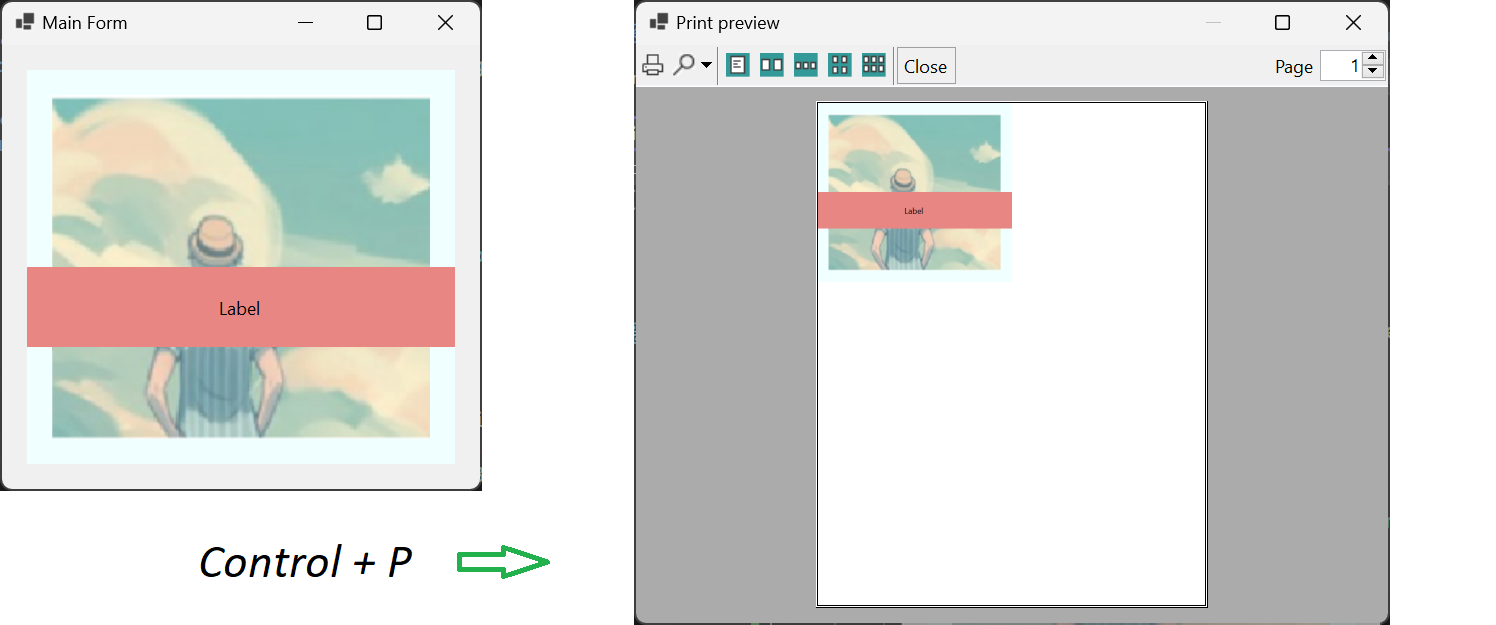
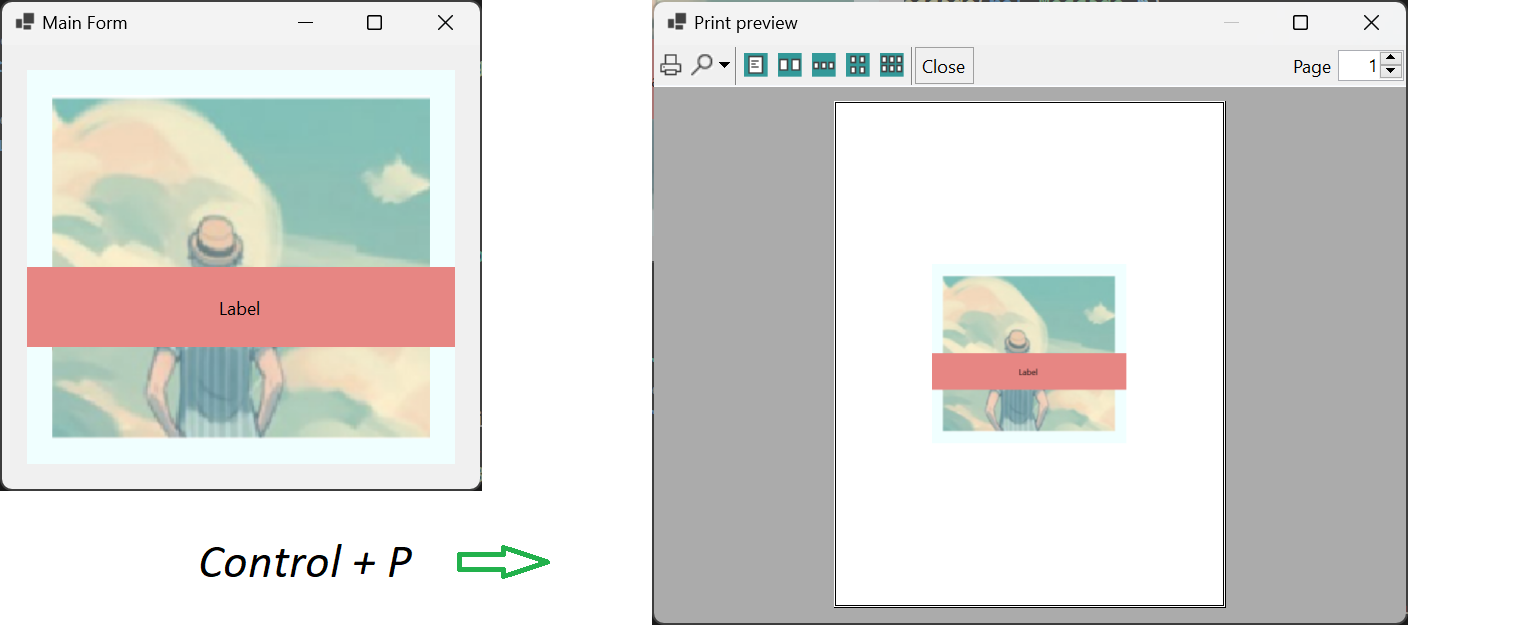
center image

diff --git a/print-preview-z-order/MainForm.cs b/print-preview-z-order/MainForm.cs
@@ -57,7 +57,12 @@ namespace print_preview_z_order
 
             void localPrintPage(object sender, PrintPageEventArgs e)
             {
-                e.Graphics?.DrawImage(bitmap, bitmap.GetBounds(ref unit));
+                e.Graphics?.DrawImage(
+                    bitmap,
+                     (e.PageBounds.Width - bitmap.Width) / 2,
+                     (e.PageBounds.Height - bitmap.Height) / 2,
+                     bitmap.Width,
+                     bitmap.Height);
             }
         }
     }

diff --git a/README.md b/README.md
@@ -19,7 +19,12 @@ Rather than endure the "awkwardness" you describe in your comment, one option wo
 
         void localPrintPage(object sender, PrintPageEventArgs e)
         {
-            e.Graphics?.DrawImage(bitmap, bitmap.GetBounds(ref unit));
+            e.Graphics?.DrawImage(
+                bitmap,
+                    (e.PageBounds.Width - bitmap.Width) / 2,
+                    (e.PageBounds.Height - bitmap.Height) / 2,
+                    bitmap.Width,
+                    bitmap.Height);
         }
     }
 
@@ -48,7 +53,6 @@ Rather than endure the "awkwardness" you describe in your comment, one option wo
             panel.BackColor = Color.Azure;
             panel.Controls.Add(label);
             panel.Controls.SetChildIndex(label, 0);
-
         }
         const int WM_KEYDOWN = 0x0100;
         public bool PreFilterMessage(ref Message m)
@@ -70,4 +74,4 @@ Rather than endure the "awkwardness" you describe in your comment, one option wo
     }
 
 
-  [1]: https://i.stack.imgur.com/5ST5n.png
+  [1]: https://i.stack.imgur.com/waGLb.png
